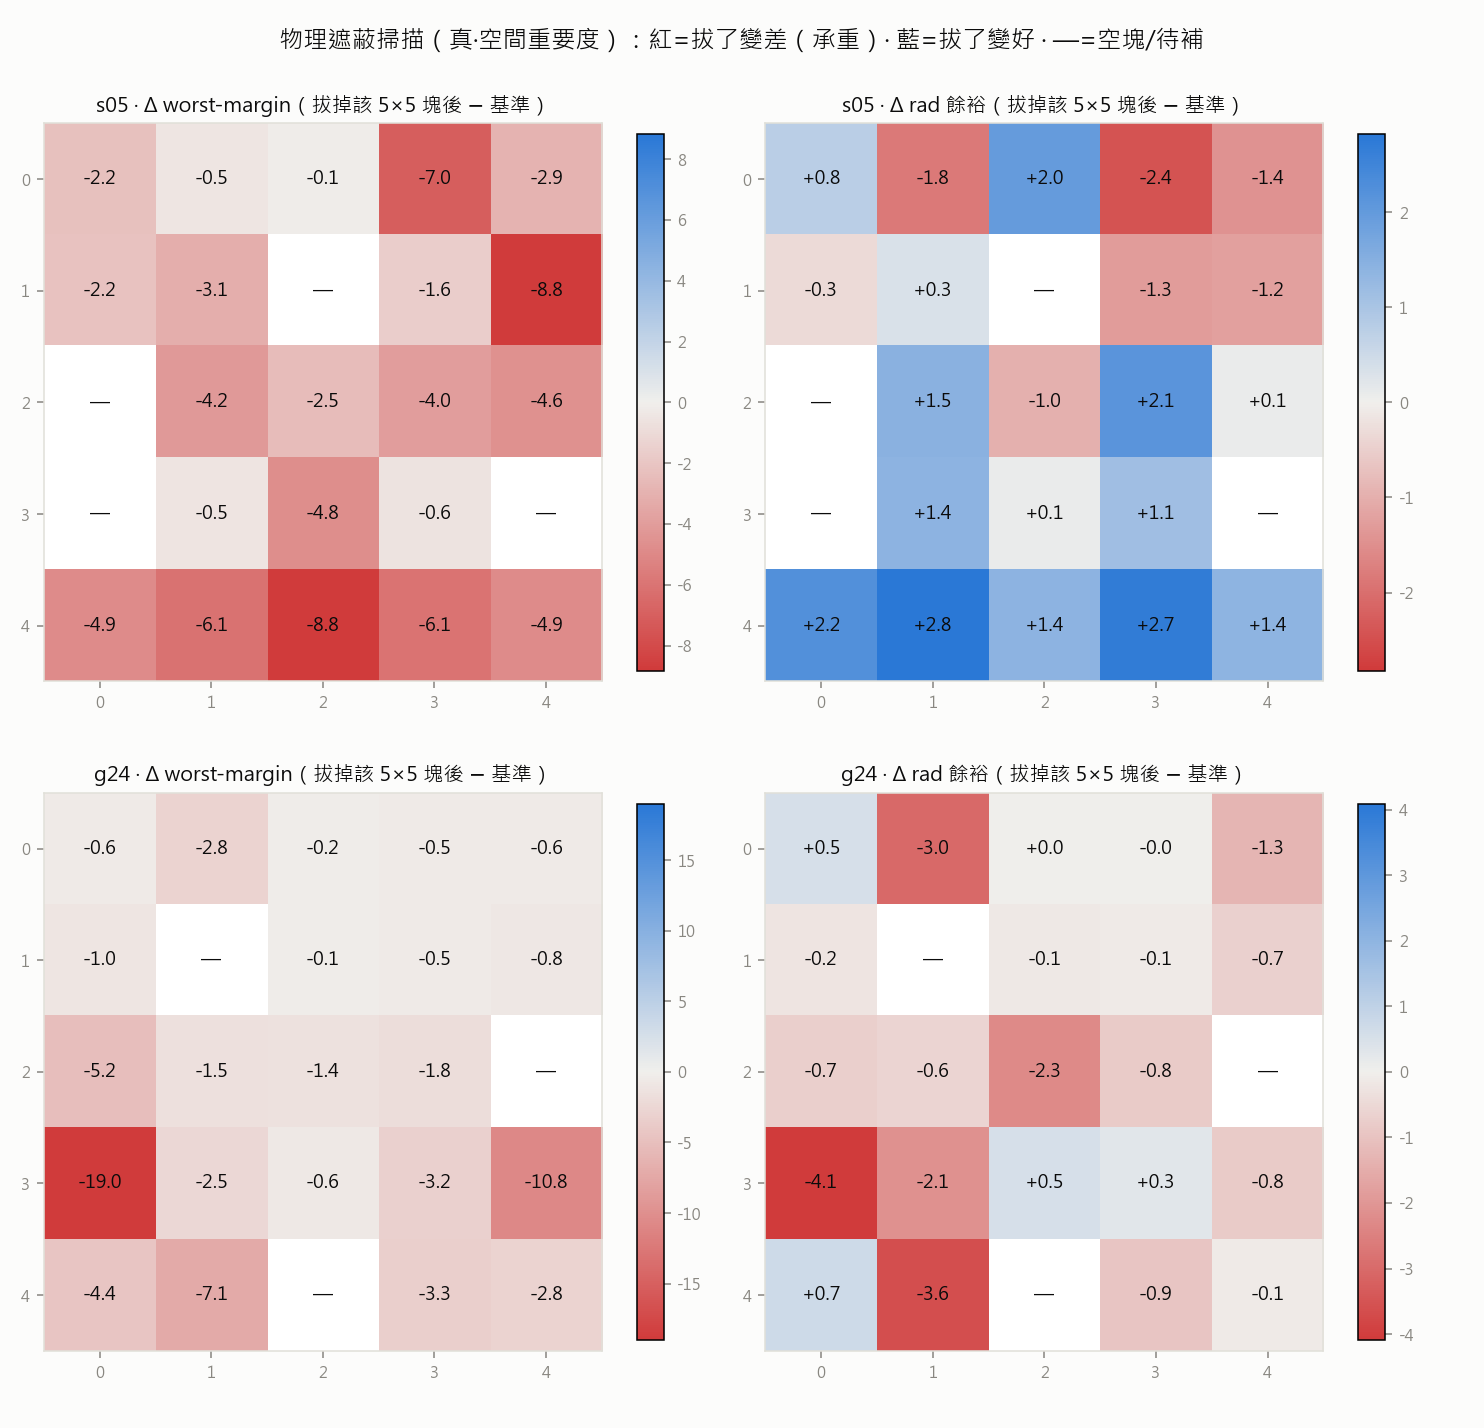
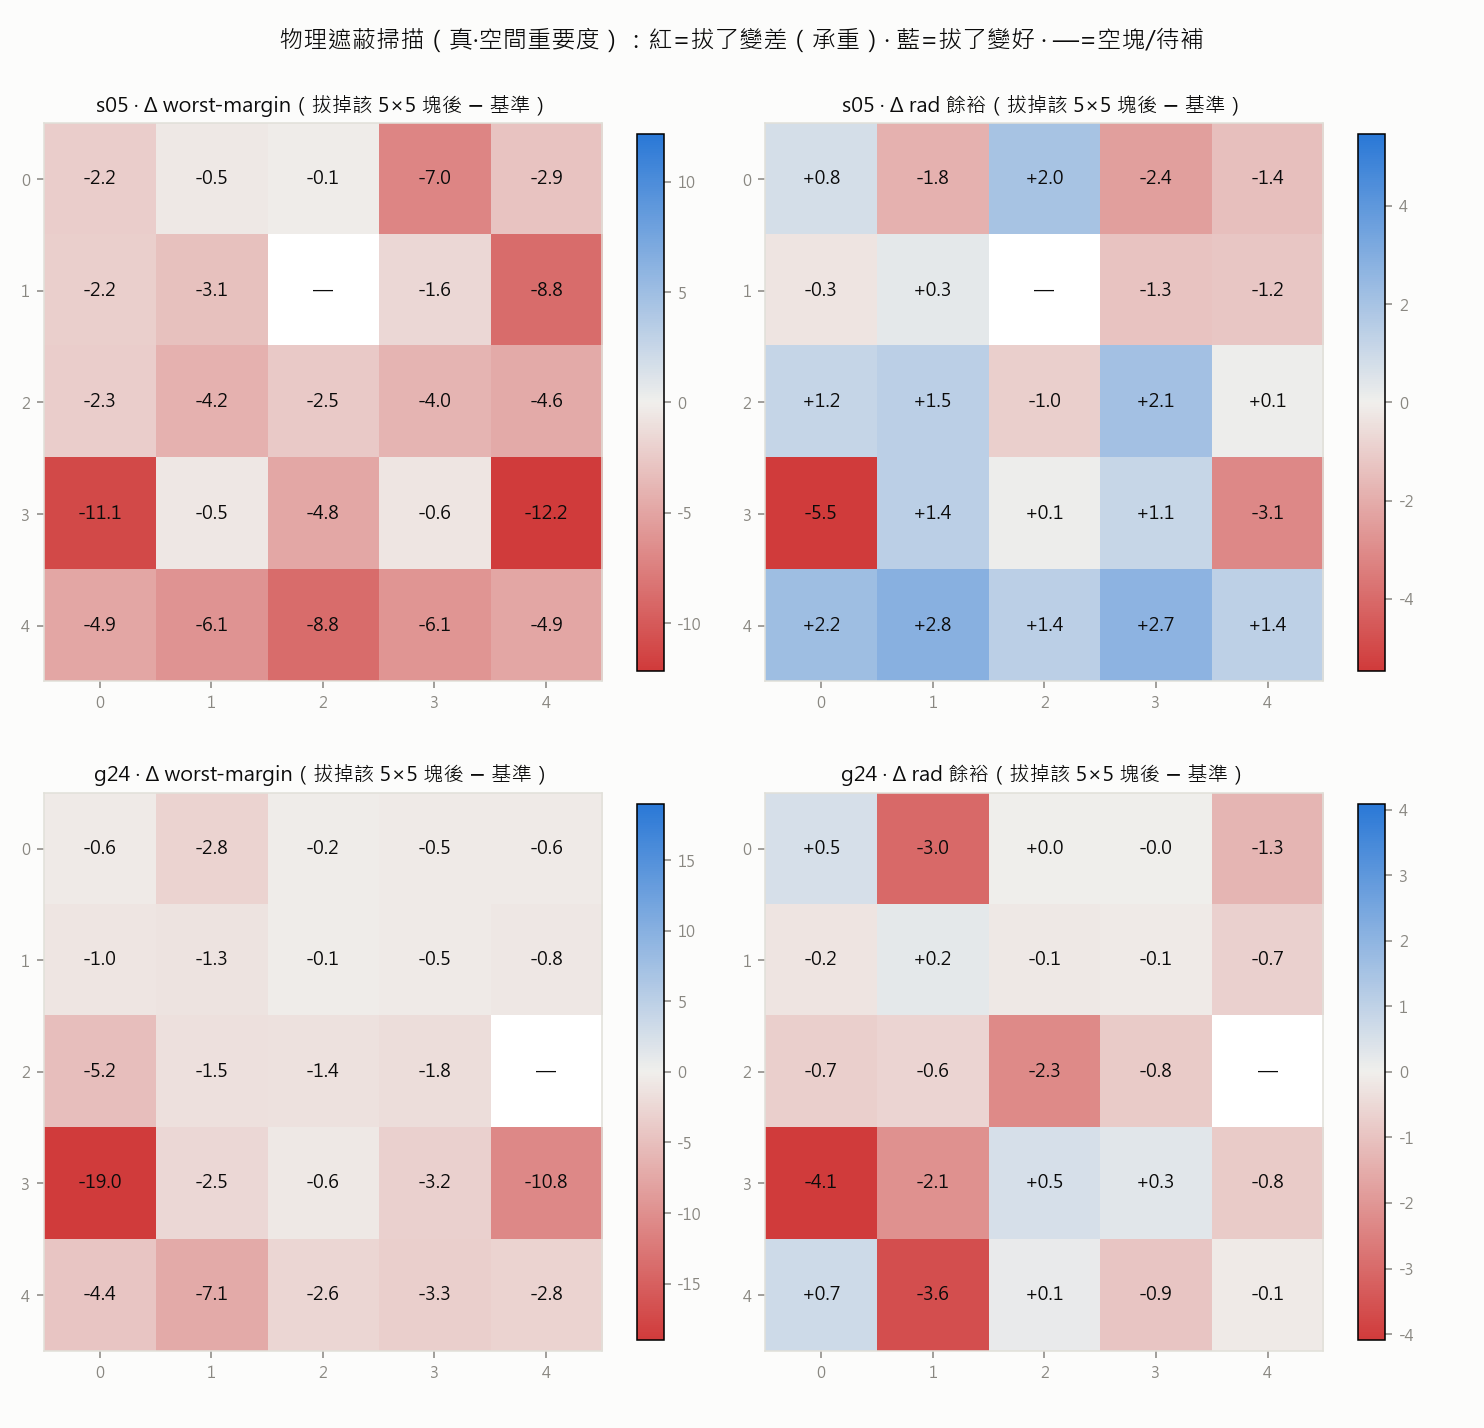
docs(log): ⚠ w17 公證翻案 — 修正為 wm −0.06 (三標全過收回,仍是可製造紀錄)
- 十次公證 8/8 = wm −0.06 (S11 +0.83/rad 曲線與原次逐位一致,分歧只在 Gain
  +0.48→−0.06);輸入檔/配方重算皆一致 → 排除輸入錯誤,採信公證值
- 新已知問題: 批次內單次 Gain 有偶發 ~0.5dB context 敏感個案 (s05 41 次含
  批次中段全一致=非通例) → 判讀規則升級: 紀錄級結論一律公證後才算數
- round-10-report 加更正啟事 (原文保留當歷史);ONGOING/round-10 同步;
  g24 rad+0.44 單次待公證;承重圖補成 48/48 完整版

Claude-Session: https://claude.ai/code/session_01QFmqtXBgsgEZTRrAkrexut

diff --git a/docs/log/round-10-refine-attribution.md b/docs/log/round-10-refine-attribution.md
@@ -3,7 +3,7 @@
 - **狀態**: running（2026-07-06 午後，兩批同時發車）
 - **提出 / 開跑 / 結論**: 2026-07-06 / 2026-07-06 / —
 - **一句話問題**: s05（差 Gain 0.29＋rad 0.91）/ g24（差 wm 1.85）能否被精修到**三標全過**？pattern 的空間重要度（哪塊承重）真值長怎樣、能否萃取成 generator 可載入的規則？
-- **一句話結論 (TL;DR)**: **`w17_k8` 三標全過（wm +0.48/rad +0.26,可製造）＝專案第一筆完勝**；X 臂 4/4 驗證「對稱化救爛毀好」因果規則；承重圖給出 wm/rad 張力的空間定位＋免費編輯區；SM 重錨 1.41 進帶
+- **一句話結論 (TL;DR)**: **w17 公證後修正為 wm −0.06**（S11 +0.83✓/rad +0.26✓,Gain 差 0.06）——「三標全過」收回,但仍是**可製造新紀錄**（−0.29→−0.06）且離全過一步；公證同時揪出「批次內單次 Gain 有偶發 ~0.5dB context 敏感個案」→ **紀錄級結論一律公證後才算數**（制度發揮作用）；X 臂 4/4 因果規則、承重圖、SM 重錨 1.41 不變
 - **指向**: 工具 `script/dedust.py`（select-refine1／select-occlude）＋`script/sm_reanchor.py` · 種子與判準源頭 [round-09](round-09-pool-revalidation.md) §5 · 規劃討論 `docs/discuss/scratch.md`「R10 候選：設計規律目錄」塊
 
 > 戰略背景（R6-R9 的合流）：批次假設迴圈的單位 HFSS 效率已勝過我們線上與學長線上；本 round 把三格
@@ -47,11 +47,15 @@
 
 | 判準 | 結果 |
 |---|---|
-| 產品 | ✅ **完勝——`w17_k8` 三標全過**（wm +0.48、rad +0.26/+1.75、3 組件零粉塵）＝ s05 翻 8px 再對稱化 |
+| 產品 | ⚠→✅修正：`w17_k8` ref1 單次 +0.48,**公證 8 次全部 −0.06**（S11 +0.83/rad 曲線兩邊逐位一致,分歧只在 Gain 一點）→ 採信 **wm −0.06**。仍是可製造新紀錄（−0.29→−0.06）,差全過 0.06 |
 | 知識 | ✅ X 臂 4/4 命中「對稱化救爛毀好」預測（因果級規則第一條）；承重圖×2 讀出「wm/rad 承重衝突有空間定位」「s05 頂中塊=rad 免費旋鈕」「g24 b(3,0) 單塊承重 19dB」 |
 | 能力 | ✅ SM 重錨 held-out 3.20→**1.41** 進 2dB 帶（無遺忘） |
 
-（ref2 過夜批次判讀另補；w17 十次公證 `dedust_w17rep_input/` 已備。）
+**公證揪出的新已知問題（2026-07-06 晚）**：同 pattern 同輸入,ref1 批次中段量到 Gain +0.48、
+公證批次 8/8 量到 −0.06——S11/rad 完全一致,分歧只在 Gain。與 s05（41 次含批次中段全一致）對照
+→ 不是通例,是「Gain 對解算 context 敏感的邊際個案」。**判讀規則升級：紀錄級結論一律公證後才算數**
+（ref2 及之後全部適用）；機制（sweep 內插/mesh 續用）待查,g24 的 +0.44 也是單次、下批補公證。
+（ref2 過夜批次判讀另補。）
 
 ## 5. 結論 (Conclude)
 

diff --git a/configs/ONGOING.md b/configs/ONGOING.md
@@ -14,9 +14,9 @@
 ## 🔵 進行中 / 待跑
 
 ### Round 10 — 精修 × 物理歸因（🔵 **running**）→ [round-10](../docs/log/round-10-refine-attribution.md)｜報告 [round-10-report](../docs/log/round-10-report.md)
-- **★ 已完勝**：ref1 W 臂 `w17_k8` **三標全過**（wm +0.48／rad +0.26,3 組件零粉塵）＝s05 翻 8px(seed 5017)再 10-5-10 對稱化。X 臂 4/4 驗證「對稱化救爛毀好」；承重圖×2 落袋；SM 重錨 1.41 進帶（`sm_reanchor.pth`）。
+- **★ w17 公證後修正（2026-07-06 晚）**：十次公證 8/8 = **wm −0.06**（原單次 +0.48 為 Gain context 個案;S11 +0.83✓ rad +0.26✓）→「三標全過」收回,w17=可製造新紀錄（−0.29→−0.06,差全過 0.06）。**新規則:紀錄級結論一律公證後才算數**;g24 的 rad+0.44 也是單次、待公證。X 臂 4/4 規則、承重圖（已補成 48/48）、SM 重錨 1.41 不變。
 - **進行中（2026-07-06 傍晚發）**：37 → **ref2 過夜**（`run --input dedust_ref2_input --store dedust_ref2`,122 筆 ≈6hr：A w17 密掃 48/B 承重圖知情編輯 36/C 重錨 SM 導引 32/D y05 線 6,目標=帶緣餘裕推高+第二冠軍）；218 → **雜項鏈**（ref1 補 3 error → `dedust_w17rep` w17 十次公證 → occl 補 5 error,共 18 筆 ≈1hr）。
-- **收檔後待辦**：ref2 判讀（B 臂 vs A 臂=承重圖知情是否贏盲掃,又一條規則因果檢驗）；w17rep 散布蓋章；round-10 §5 結論＋README 索引；規則→generator（R11 工程,像素先驗 logit map/修復算子）。
+- **收檔後待辦**：ref2 判讀（任何紀錄級候選→先公證再宣稱;B vs A=承重圖知情是否贏盲掃）；g24 公證＋w17 在 37 補公證（確認 −0.06 跨機）；round-10 §5 結論＋README 索引；規則→generator（R11）。
 - ⚠ 監看掛在開發機 Claude session,session 沒了就沒監看——進度隨時可用 `python -m script.dedust report --input dedust_ref2_input --store dedust_ref2`（其餘 store 同理）查 NAS 真相。
 
 ### Round 5 — 滑動視窗 SM 訓練量（🔵 **running**，2026-07-03 發）→ 詳見 [docs/log/round-05](../docs/log/round-05-window-sm.md)

diff --git a/docs/log/round-10-report.md b/docs/log/round-10-report.md
@@ -3,7 +3,12 @@
 > Round 10 · 2026-07-06 午後收 ref1＋遮蔽掃描。判準發車前寫死於 [round-10](round-10-refine-attribution.md)。
 > 雜訊地板已由 41 次重複公證為 ≈0（[round-09](round-09-pool-revalidation.md) §4 附錄）——本報告每個數字都是真效果。
 
-## 頭條
+> **⚠ 更正啟事（2026-07-06 晚,公證後）**：w17 十次公證 8/8 給出 **wm −0.06**（非下文的 +0.48）；
+> S11 +0.83 與 rad 曲線與原次逐位一致,分歧只在 Gain 一點。採信 −0.06 →「三標全過」**收回**,
+> w17 改記為**可製造新紀錄（−0.29→−0.06,差全過 0.06）**。下文 +0.48 相關敘述保留當歷史記錄;
+> 詳見 round-10 §4「公證揪出的新已知問題」。這正是公證制度存在的原因。
+
+## 頭條（更正前原文）
 
 **`w17_k8`：專案第一筆「S11＋Gain＋rad±45°＋可製造」四關全過的 pattern。**
 
